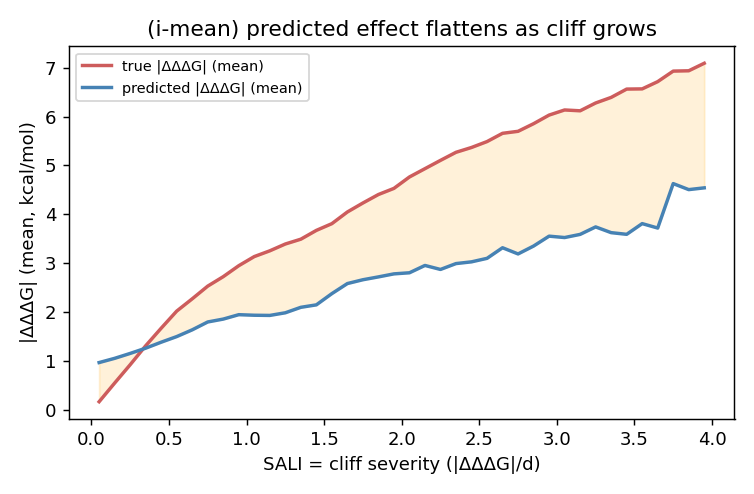
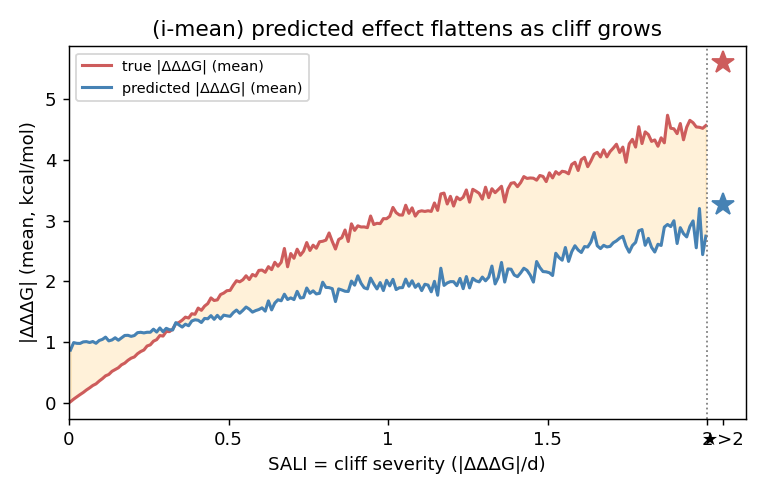
mutation-cliff §4.1: SALI bins -> [0,2) step=0.01 + >2 aggregate; figures fine curve + >2 star; tables recomputed (coarse 5-row summary)

diff --git a/reproduce/mutation_cliff_viz.py b/reproduce/mutation_cliff_viz.py
@@ -145,50 +145,75 @@ def perif(d,gcol,xc,yc):
     f=lambda v:(np.nanmean(v) if n>=MINIF else np.nan)
     return f(pe),f(sp),f(rm),n
 
-BW=0.1; TOP=4.0
+BW=0.01; TOP=2.0; HIX=2.05      # [0,2) step=0.01 细桶 + 一个 >2 聚合点(画在 x=2.05)
 fedges=np.round(np.arange(0,TOP+1e-9,BW),2); ctr=fedges[:-1]+BW/2
 P["fb"]=pd.cut(P.SALI,fedges,labels=False,right=False)
 groups={int(k):v for k,v in P.dropna(subset=["fb"]).groupby("fb")}
+HI=P[P.SALI>=TOP]               # >2 聚合桶
 n=len(ctr)
 mt=np.full(n,np.nan); mp=np.full(n,np.nan); mdt=np.full(n,np.nan); mdp=np.full(n,np.nan)
 res={k:{m:np.full(n,np.nan) for m in "PSR"} for k in "abcd"}
+def metrics_of(q):
+    out={}
+    out["a"]=(safe(pearsonr,q.true_jump,q.pred_jump),safe(spearmanr,q.true_jump,q.pred_jump),rmse(q.true_jump,q.pred_jump))
+    out["b"]=perif(q,"PDB","true_jump","pred_jump")[:3]
+    ids=pd.unique(pd.concat([q.iA,q.iB])); M=agg.loc[ids,["Name","ddG","ddG_pred"]]
+    out["c"]=(safe(pearsonr,M.ddG,M.ddG_pred),safe(spearmanr,M.ddG,M.ddG_pred),rmse(M.ddG,M.ddG_pred))
+    out["d"]=perif(M,"Name","ddG","ddG_pred")[:3]
+    return out,M
 for i in range(n):
     q=groups.get(i)
     if q is None or len(q)<MINN: continue
     mt[i]=q.absT.mean(); mp[i]=q.absP.mean(); mdt[i]=q.absT.median(); mdp[i]=q.absP.median()
-    res["a"]["P"][i]=safe(pearsonr,q.true_jump,q.pred_jump); res["a"]["S"][i]=safe(spearmanr,q.true_jump,q.pred_jump); res["a"]["R"][i]=rmse(q.true_jump,q.pred_jump)
-    bP,bS,bR,_=perif(q,"PDB","true_jump","pred_jump"); res["b"]["P"][i]=bP; res["b"]["S"][i]=bS; res["b"]["R"][i]=bR
-    ids=pd.unique(pd.concat([q.iA,q.iB])); M=agg.loc[ids,["Name","ddG","ddG_pred"]]
-    res["c"]["P"][i]=safe(pearsonr,M.ddG,M.ddG_pred); res["c"]["S"][i]=safe(spearmanr,M.ddG,M.ddG_pred); res["c"]["R"][i]=rmse(M.ddG,M.ddG_pred)
-    dP,dS,dR,_=perif(M,"Name","ddG","ddG_pred"); res["d"]["P"][i]=dP; res["d"]["S"][i]=dS; res["d"]["R"][i]=dR
+    mo,_=metrics_of(q)
+    for k in "abcd":
+        res[k]["P"][i],res[k]["S"][i],res[k]["R"][i]=mo[k]
+hmo,HM=metrics_of(HI)           # >2 聚合
+hi_mt,hi_mp,hi_mdt,hi_mdp=HI.absT.mean(),HI.absP.mean(),HI.absT.median(),HI.absP.median()
 nval={k:int(np.sum(~np.isnan(res[k]["P"]))) for k in "abcd"}
-print(f"\n=== §4 fine bins: {n} 个(step={BW}, 0–{TOP}) | 有效点 a/b/c/d = {nval} ===")
-for i in range(0,n,5):
-    print(f"  SALI~{ctr[i]:.2f}: true {mt[i]:.2f}/pred {mp[i]:.2f} | a-RMSE {res['a']['R'][i]:.2f} c-RMSE {res['c']['R'][i]:.2f} d-RMSE {res['d']['R'][i]:.2f}")
+print(f"\n=== §4 fine bins: {n} 个(step={BW}, 0–{TOP})+>2 | 有效点 a/b/c/d = {nval} ===")
 
-# ---- §4 (i):flatten,mean 与 median 两张图 ----
-for tag,vt,vp in [("mean",mt,mp),("median",mdt,mdp)]:
-    fig,ax=plt.subplots(figsize=(5.8,3.8))
-    ax.plot(ctr,vt,c="indianred",lw=1.9,label=f"true |ΔΔΔG| ({tag})")
-    ax.plot(ctr,vp,c="steelblue",lw=1.9,label=f"predicted |ΔΔΔG| ({tag})")
+# ---- §4 (i):flatten,mean 与 median 两张图(0–2 细线 + >2 聚合点)----
+def addhi(ax,val): ax.plot([HIX],[val],marker="*",ms=12,c="k",zorder=5)
+for tag,vt,vp,hvt,hvp in [("mean",mt,mp,hi_mt,hi_mp),("median",mdt,mdp,hi_mdt,hi_mdp)]:
+    fig,ax=plt.subplots(figsize=(5.9,3.8))
+    ax.plot(ctr,vt,c="indianred",lw=1.7,label=f"true |ΔΔΔG| ({tag})")
+    ax.plot(ctr,vp,c="steelblue",lw=1.7,label=f"predicted |ΔΔΔG| ({tag})")
     ax.fill_between(ctr,vp,vt,where=~np.isnan(vt),color="orange",alpha=0.15)
+    ax.plot([HIX],[hvt],marker="*",ms=13,c="indianred"); ax.plot([HIX],[hvp],marker="*",ms=13,c="steelblue")
+    ax.axvline(TOP,ls=":",c="grey",lw=1)
+    ax.set_xlim(0,2.12); ax.set_xticks([0,0.5,1,1.5,2,HIX]); ax.set_xticklabels(["0","0.5","1","1.5","2","★>2"])
     ax.set_xlabel("SALI = cliff severity (|ΔΔΔG|/d)"); ax.set_ylabel(f"|ΔΔΔG| ({tag}, kcal/mol)")
     ax.set_title(f"(i-{tag}) predicted effect flattens as cliff grows"); ax.legend(fontsize=8)
     fig.tight_layout(); fig.savefig(os.path.join(OUT,f"adit_cliff_flatten_{tag}.png")); plt.close(fig)
 
-# ---- §4 (ii):12 指标(a/b/c/d × P/S/RMSE),fine bins ----
+# ---- §4 (ii):12 指标(a/b/c/d × P/S/RMSE),0–2 细线 + >2 聚合点 ----
 titles={"a":"(a) ΔΔΔG overall","b":"(b) ΔΔΔG per-interface","c":"(c) ΔΔG overall","d":"(d) ΔΔG per-interface"}
 fig,axes=plt.subplots(2,2,figsize=(11,7.4))
 for ax,k in zip(axes.flat,"abcd"):
-    ax.plot(ctr,res[k]["P"],"-",c="crimson",lw=1.6,label="Pearson")
-    ax.plot(ctr,res[k]["S"],"-",c="navy",lw=1.6,label="Spearman")
-    ax.set_ylim(0,1); ax.set_ylabel("correlation (↑=better)"); ax.set_title(titles[k]); ax.axhline(0,ls=":",c="grey")
-    axr=ax.twinx(); axr.plot(ctr,res[k]["R"],"-",c="darkorange",lw=1.6,label="RMSE"); axr.set_ylabel("RMSE (↓=better)")
+    ax.plot(ctr,res[k]["P"],"-",c="crimson",lw=1.4,label="Pearson")
+    ax.plot(ctr,res[k]["S"],"-",c="navy",lw=1.4,label="Spearman")
+    ax.plot([HIX],[hmo[k][0]],"*",ms=11,c="crimson"); ax.plot([HIX],[hmo[k][1]],"*",ms=11,c="navy")
+    ax.axvline(TOP,ls=":",c="grey",lw=1)
+    ax.set_ylim(0,1); ax.set_xlim(0,2.12); ax.set_xticks([0,0.5,1,1.5,2,HIX]); ax.set_xticklabels(["0",".5","1","1.5","2","★>2"])
+    ax.set_ylabel("correlation (↑=better)"); ax.set_title(titles[k]); ax.axhline(0,ls=":",c="grey")
+    axr=ax.twinx(); axr.plot(ctr,res[k]["R"],"-",c="darkorange",lw=1.4,label="RMSE"); axr.plot([HIX],[hmo[k][2]],"*",ms=11,c="darkorange")
+    axr.set_ylabel("RMSE (↓=better)")
     h1,l1=ax.get_legend_handles_labels(); h2,l2=axr.get_legend_handles_labels()
     ax.legend(h1+h2,l1+l2,fontsize=7.5,loc="center left")
     ax.set_xlabel("SALI = cliff severity")
-fig.suptitle("Per-SALI-bin (step=0.1) metrics: correlations RISE (SNR artifact), only RMSE rises=worse",fontsize=11)
+fig.suptitle("Per-SALI-bin (step=0.01, 0–2) + >2: correlations RISE (SNR artifact), only RMSE rises=worse",fontsize=11)
 fig.tight_layout(); fig.savefig(os.path.join(OUT,"adit_cliff_metrics.png")); plt.close(fig)
+
+# ---- coarse 汇总表(md 用): 0-.5,.5-1,1-1.5,1.5-2,>2 ----
+cedges=[0,0.5,1,1.5,2,1e9]; clab=["0-.5",".5-1","1-1.5","1.5-2",">2"]
+P["cb"]=pd.cut(P.SALI,cedges,labels=clab,right=False)
+print("\n=== §4 coarse 汇总(table 用)===")
+for L in clab:
+    q=P[P.cb==L]; mo,M=metrics_of(q)
+    print(f"  {L}: n={len(q)} | true {q.absT.mean():.2f}/{q.absT.median():.2f} pred {q.absP.mean():.2f}/{q.absP.median():.2f} "
+          f"| a {mo['a'][0]:.2f}/{mo['a'][1]:.2f}/{mo['a'][2]:.2f} | b {mo['b'][0]:.2f}/{mo['b'][1]:.2f}/{mo['b'][2]:.2f} "
+          f"| c {mo['c'][0]:.2f}/{mo['c'][1]:.2f}/{mo['c'][2]:.2f} | d {mo['d'][0]:.2f}/{mo['d'][1]:.2f}/{mo['d'][2]:.2f}")
 
 # ======================= 表:diff_percent =======================
 P["diff_percent"]=(P.pred_jump-P.true_jump)/P.true_jump.replace(0,np.nan)
